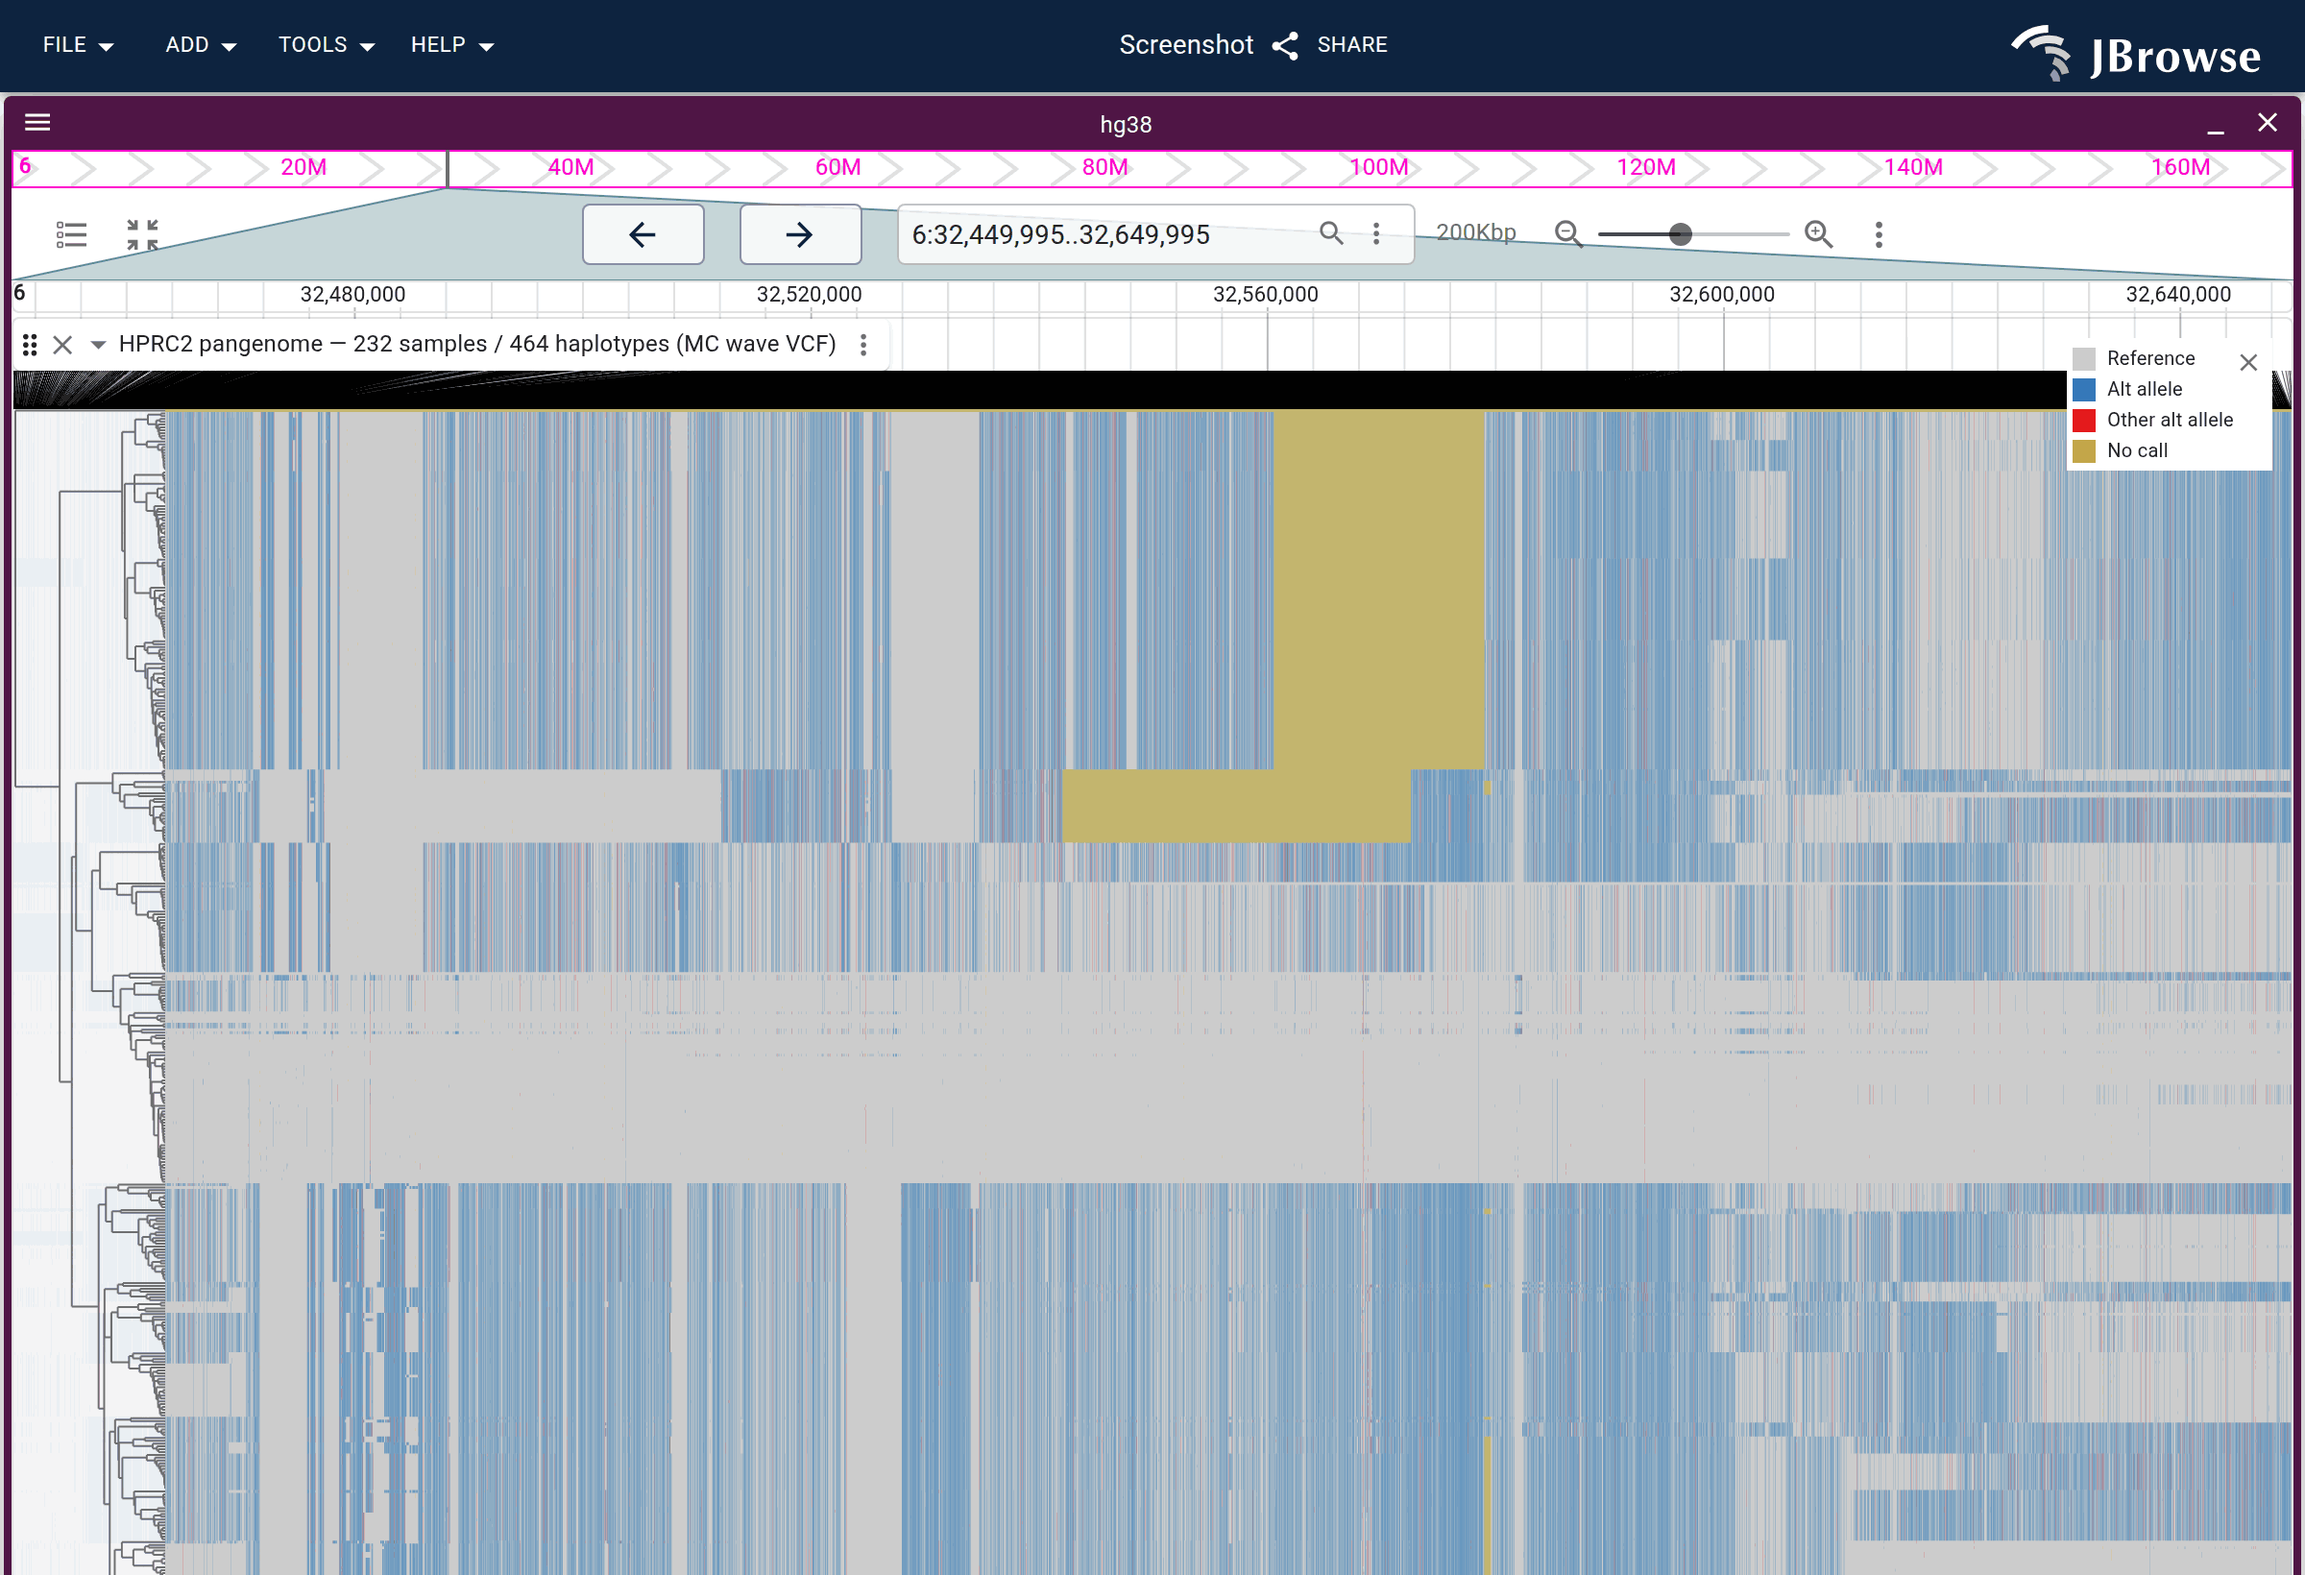
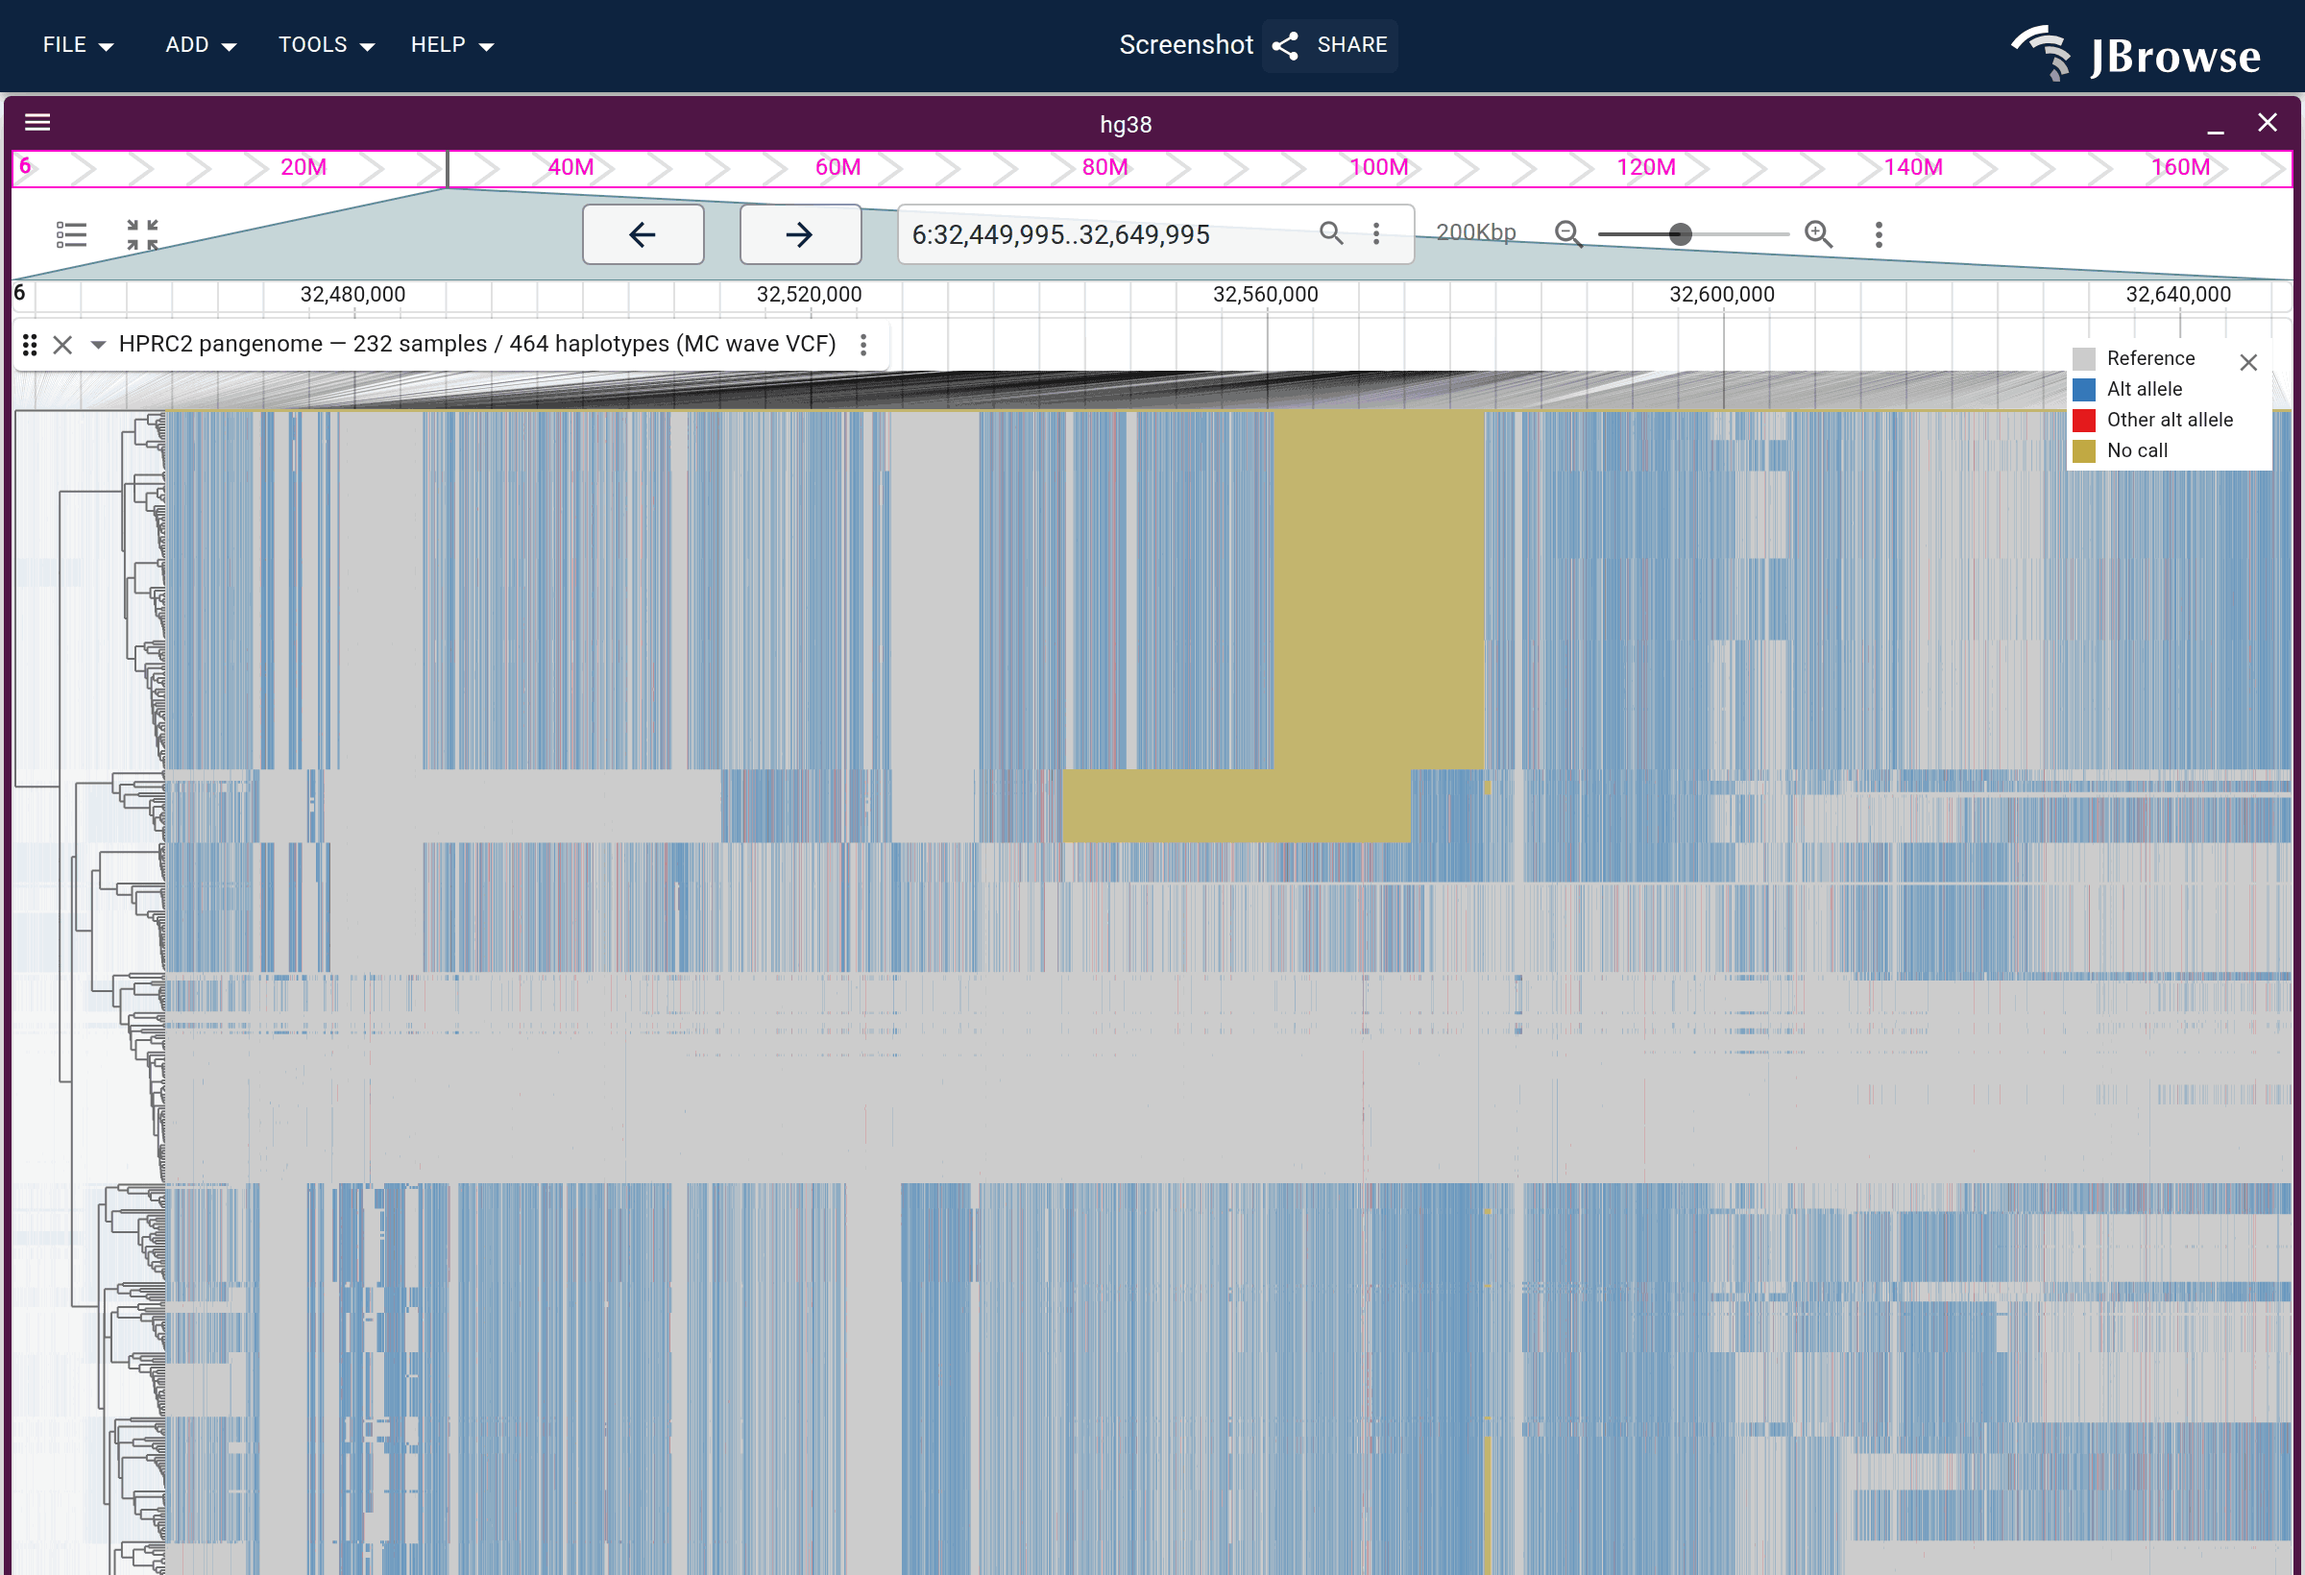
docs(website): regenerate the HPRC2 MHC matrix figures with the faded connector field
The connector zone measured mean grey 25/255 before -- a solid black bar over
both figures, which is what the review flagged as "just a solid black mass so
confusing for readers". It now measures ~155 with the individual lines and their
varying density visible, so the band reads as the fan of column-to-position
connectors it is. The convergence toward the left is real density, not paint.

Also corrects the calibration comment: ~155 with visible structure is what this
constant actually achieves, not the 180-210 the first pass guessed at.

Changed region(s): [[0.0, 0.2177, 0.9062, 0.2799]]

diff --git a/plugins/variants/src/shared/connectorLineAlpha.ts b/plugins/variants/src/shared/connectorLineAlpha.ts
@@ -20,7 +20,9 @@
 //   convert static/img/hprc2/mhc_clustered.png -crop 2400x1+0+404 +repage \
 //     -format '%[fx:int(255*mean)]' info:
 //
-// Target for that row is a light texture (~180-210), not a mass (~25).
+// At the value below that row measures ~155, and the individual lines and their
+// varying density are visible in the band — a texture, where 0.4 gave ~25 and no
+// structure at all. Judge the structure, not just the number.
 const INK_PER_PX = 0.17
 const MAX_ALPHA = 0.4
 
